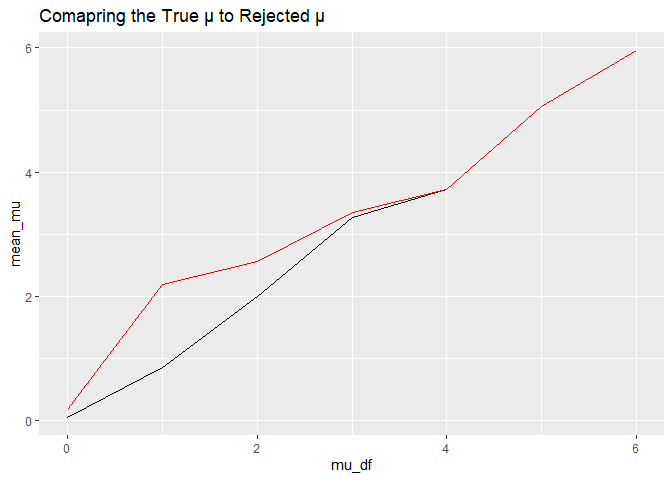
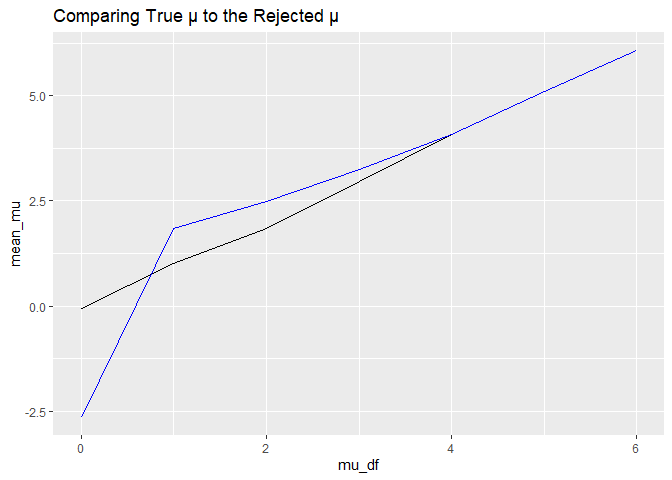
committing adjusted plots in 2 and 3

diff --git a/p8105_hw5_ss6692.md b/p8105_hw5_ss6692.md
@@ -229,7 +229,7 @@ sim_power_results = expand_grid(
   unnest(estimate)
 ```
 
-Now, we will plot the power of the test by the true mu
+Now, we will plot the power of the test by the true mu.
 
 ``` r
 sim_power_results |> 
@@ -245,12 +245,17 @@ sim_power_results |>
 
 ![](p8105_hw5_ss6692_files/figure-gfm/plotting_power-1.png)<!-- -->
 
+Now, we will calculate the true mu
+
 ``` r
 true_mu =
   sim_power_results |> 
   group_by(mu_df) |> 
   summarize(mean_mu = mean(mu_hat))
 ```
+
+Now, we will calculate the average estimate of mu in samples where the
+null was rejected
 
 ``` r
 reject_mu = 
@@ -260,13 +265,13 @@ reject_mu =
   summarize(mean_mu = mean(mu_hat))
 ```
 
-Now, we plot.
+Now, we plot the rejected mu over the true mu to compare.
 
 ``` r
 ggplot(true_mu, aes(x = mu_df, y = mean_mu)) +
   geom_line() +
-  geom_line(data = reject_mu, color = "red") +
-  labs(title = "Comapring the True μ to Rejected μ")
+  geom_line(data = reject_mu, color = "blue") +
+  labs(title = "Comparing True μ to the Rejected μ")
 ```
 
 ![](p8105_hw5_ss6692_files/figure-gfm/mu_plot-1.png)<!-- -->
